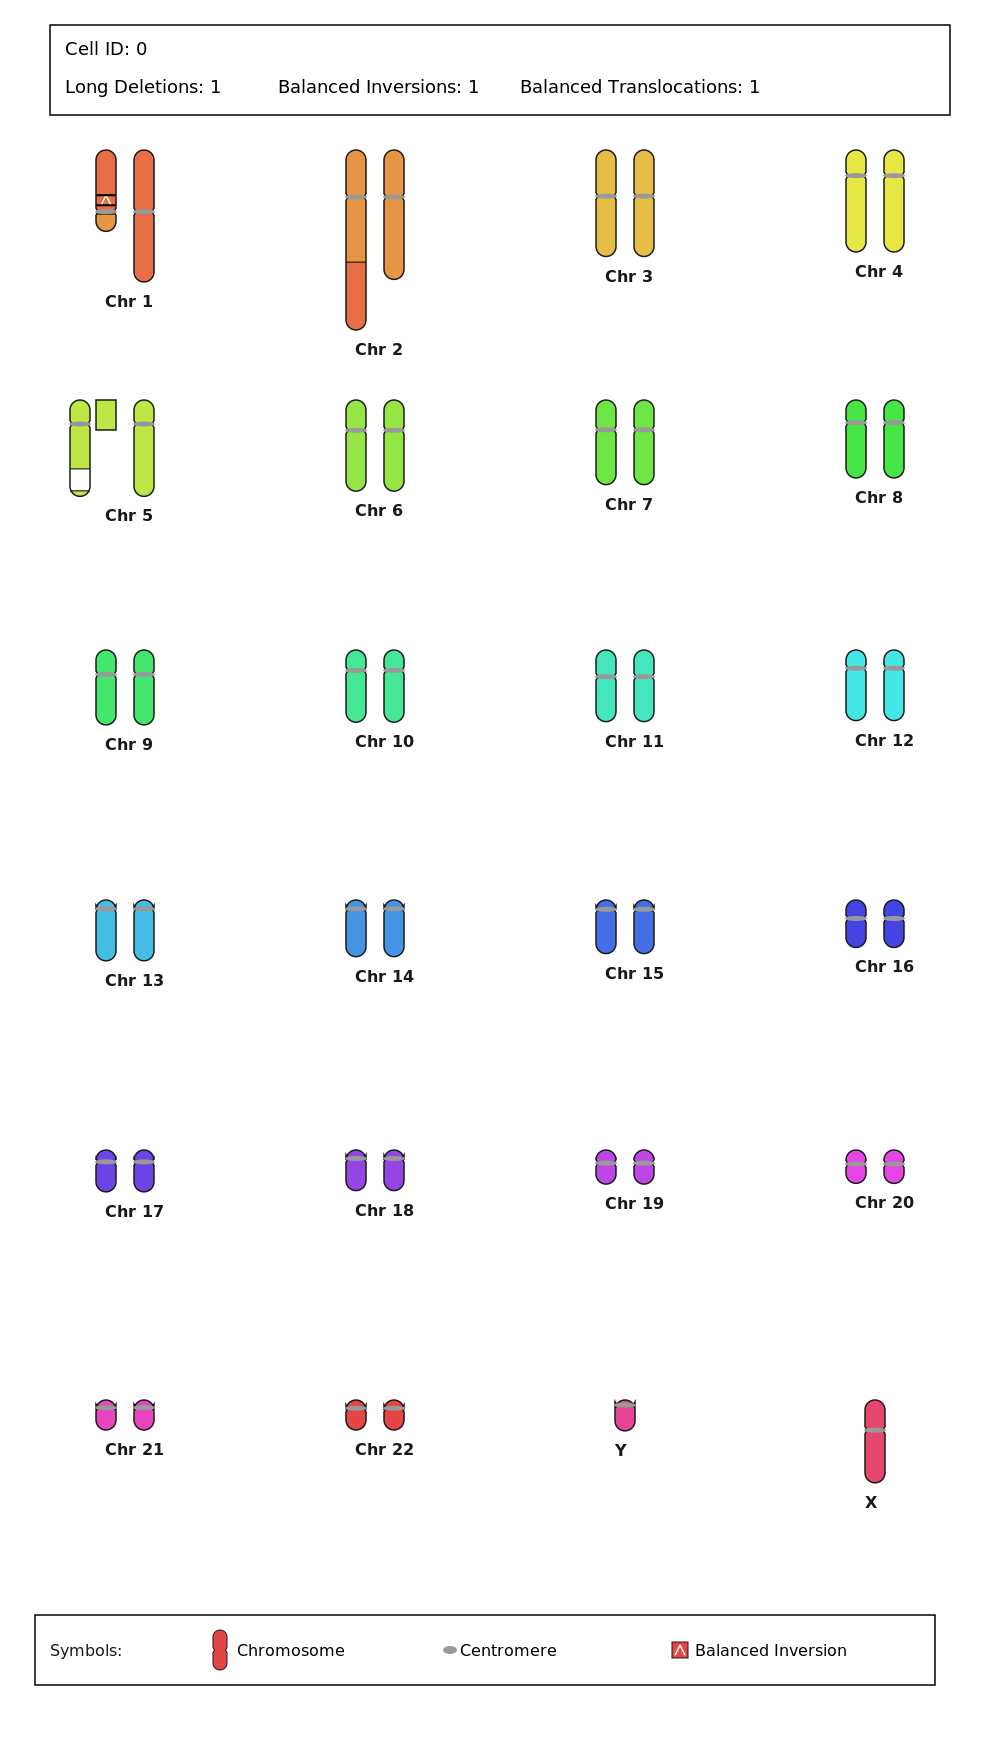
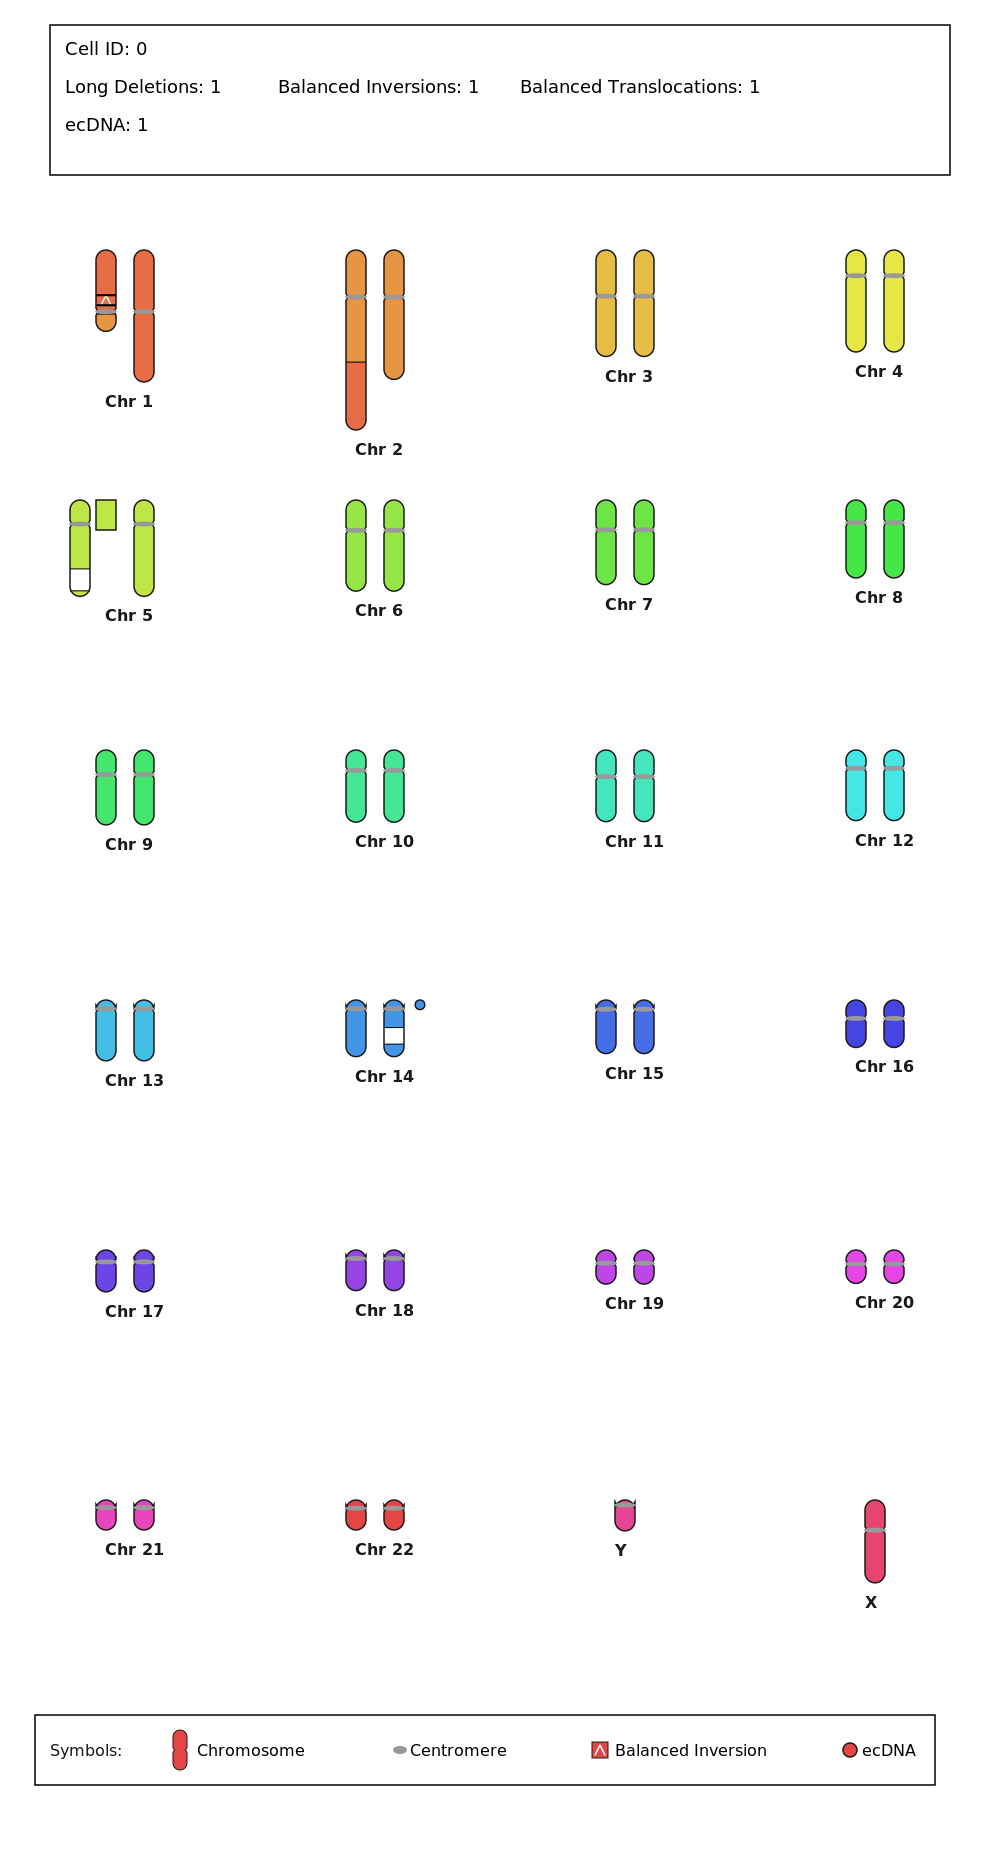
Updated karyogram for ecDNA.

diff --git a/source/karyogram/KaryogramSDR.cpp b/source/karyogram/KaryogramSDR.cpp
@@ -93,7 +93,7 @@ bool Karyogram::generateSDRkaryogram(					// Function to draw a karyogram of the
     const int columns = 4;
     const double colWidth = static_cast<double>(imgWidth) / columns;
     const double rowHeight = 250.0;
-    const double startY = 150.0;
+    const double startY = 250.0;
     const int rows = (drawableGroups + columns - 1) / columns;
     int imgHeight;
 
@@ -721,6 +721,8 @@ void Karyogram::drawStackedMutations(
     // real chromosome edge.
     const bool isDeletion = isDeletionShape(records, homeOldStrandID);
 
+    const bool isECDNA = isECDNAshape(records, homeOldStrandID);
+
     const std::size_t sizeIndex = static_cast<std::size_t>(homeOldStrandID);
     
     const double originalSizeMbp = (sizeIndex < masterHeader.intactChromosomeSizes.size()) ? masterHeader.intactChromosomeSizes[sizeIndex] : 0.0;
@@ -737,7 +739,7 @@ void Karyogram::drawStackedMutations(
             lengthMbp += std::fabs(fragment.oldEndPosition - fragment.oldStartPosition);// Determine new rearranged strand length
         }
 
-        if (isDeletion && record->fragments.size() == 2 && originalSizeMbp > 0.0)
+        if ((isDeletion || isECDNA) && record->fragments.size() == 2 && originalSizeMbp > 0.0)
         {
             const double barHeight = computeSDRbarHeight(originalSizeMbp, maxLengthMbp, maxRenderHeight);
             const std::vector<PaintedSegment> segments = buildDeletionRemainingSegments(*record, homeOldStrandID, humanGenome, masterHeader);
@@ -759,6 +761,23 @@ void Karyogram::drawStackedMutations(
             const std::vector<PaintedSegment> segments = buildPaintedSegments(*record, humanGenome, masterHeader);
 
             drawPaintedChromosome(cr, barX, posY, barHeight, chromosomeWidth, segments, roundTopCap, roundBottomCap);
+        }
+	else if (isECDNA && record->fragments.size() == 1 && originalSizeMbp > 0.0)
+        {
+	    // Scale so the CIRCUMFERENCE matches what this fragment's height
+    	    // would be if drawn as a linear bar - each base pair gets the same
+    	    // amount of linear space along the circle's edge as it would along
+    	    // a bar's height, rather than mapping length directly to diameter.
+    	    const double equivalentLinearHeight = computeSDRbarHeight(lengthMbp, maxLengthMbp, maxRenderHeight);
+    	    double diameter = equivalentLinearHeight / M_PI;
+	    diameter = std::min(diameter, chromosomeWidth * 3.0);
+
+
+            const double centerX = barX + chromosomeWidth / 2.0;
+            const double centerY = posY + diameter / 2.0;
+            const RGB color = getColorForOriginalStrand(homeOldStrandID, masterHeader);
+
+            drawCircularFragment(cr, centerX, centerY, diameter, color);
         }
 	else
         {
@@ -918,6 +937,37 @@ void Karyogram::drawInversionChevron(					// Function to draw a marker to denote
 
 
 
+
+
+
+// Draws an ecDNA fragment as a filled circle rather than a bar -
+// visually distinct from every other (linear) piece on the karyogram.
+void Karyogram::drawCircularFragment(cairo_t* cr, double centerX, double centerY, double diameter, RGB color)
+{
+    const double radius = diameter / 2.0;
+
+    cairo_new_path(cr);
+    cairo_arc(cr, centerX, centerY, radius, 0.0, 2.0 * M_PI);
+
+    cairo_set_source_rgb(cr, color.r, color.g, color.b);
+    cairo_fill_preserve(cr);
+
+    cairo_set_source_rgb(cr, 0.1, 0.1, 0.1);
+    cairo_set_line_width(cr, 1.5);
+    cairo_stroke(cr);
+}
+
+
+
+
+
+
+
+
+
+
+
+
 // The same height-scaling formula drawStackedMutations uses per bar -
 // pulled out so label positioning can reuse it without duplicating
 // the clamp logic.
@@ -1039,6 +1089,59 @@ std::vector<const SDRdataRecord*> Karyogram::filterBaselineIfMutated(
 // ------------------------------------------------------- //
 
 
+// Identical shape to isDeletionShape(), except the excised (1-fragment)
+// record must be CIRCULAR rather than linear, and must be acentric -
+// an ecDNA fragment carrying a centromere isn't ecDNA.
+bool Karyogram::isECDNAshape(const std::vector<const SDRdataRecord*>& records, int homeOldStrandID)
+{
+    if (records.size() != 2)
+    {
+        return false;
+    }
+
+    const SDRdataRecord* twoFragmentRecord = nullptr;
+    const SDRdataRecord* oneFragmentRecord = nullptr;
+
+    for (const SDRdataRecord* record : records)
+    {
+        for (const SDRfragment& fragment : record->fragments)
+        {
+            if (fragment.oldStrandID != homeOldStrandID)
+            {
+                return false;
+            }
+        }
+
+        if (record->fragments.size() == 2 && record->linear && twoFragmentRecord == nullptr)
+        {
+            twoFragmentRecord = record;
+        }
+        else if (record->fragments.size() == 1 && !record->linear && !record->fragments[0].hasCentromere && oneFragmentRecord == nullptr)
+        {
+            oneFragmentRecord = record;
+        }
+        else
+        {
+            return false;
+        }
+    }
+
+    return twoFragmentRecord != nullptr && oneFragmentRecord != nullptr;
+}
+
+
+
+
+
+
+
+
+
+
+
+
+
+
 // A deletion's records have a specific, checkable shape: exactly two
 // records assigned to this home strand, one with exactly two
 // fragments and one with exactly one, and every fragment in both
@@ -1091,79 +1194,6 @@ bool Karyogram::isDeletionShape(const std::vector<const SDRdataRecord*>& records
 
 
 
-
-
-
-/*
-// The first record's full fragment list is the base structure (e.g.
-// an inversion's rearranged shape). Every subsequent record only
-// contributes its FOREIGN (non-home-strand) fragments - its own
-// home-strand fragments would just duplicate genomic territory the
-// base record already covers.
-SDRdataRecord Karyogram::concatenateRecordsForDrawing(const std::vector<const SDRdataRecord*>& records, int homeOldStrandID)
-{
-    SDRdataRecord merged{};
-    merged.cellID = records.front()->cellID;
-    merged.newStrandID = records.front()->newStrandID; // Representative ID, used only for the drawn label.
-    merged.linear = records.front()->linear;
-
-    std::vector<SDRfragment> baseFragments(records.front()->fragments.begin(), records.front()->fragments.end());
-
-    for (std::size_t i = 1; i < records.size(); ++i)
-    {
-        std::vector<std::pair<double, double>> replacedRanges;
-
-        for (const SDRfragment& fragment : records[i]->fragments)
-        {
-            if (fragment.oldStrandID == homeOldStrandID)
-            {
-                const double lo = std::min(fragment.oldStartPosition, fragment.oldEndPosition);
-                const double hi = std::max(fragment.oldStartPosition, fragment.oldEndPosition);
-                replacedRanges.push_back({lo, hi});
-            }
-        }
-
-        for (const auto& range : replacedRanges)
-        {
-            std::vector<SDRfragment> clipped;
-
-            for (const SDRfragment& base : baseFragments)
-            {
-                const double baseLo = std::min(base.oldStartPosition, base.oldEndPosition);
-                const double baseHi = std::max(base.oldStartPosition, base.oldEndPosition);
-
-                if (baseHi <= range.first || baseLo >= range.second)
-                {
-                    clipped.push_back(base); // No overlap - keep as-is.
-                }
-                // Any base fragment overlapping the replaced range is dropped
-                // (full removal - assumes no partial-overlap cases for now).
-            }
-
-            baseFragments = clipped;
-        }
-    }
-
-    for (const SDRfragment& fragment : baseFragments)
-    {
-        merged.fragments.push_back(fragment);
-    }
-
-    for (std::size_t i = 1; i < records.size(); ++i)
-    {
-        for (const SDRfragment& fragment : records[i]->fragments)
-        {
-            if (fragment.oldStrandID != homeOldStrandID)
-            {
-                merged.fragments.push_back(fragment);
-            }
-        }
-    }
-
-    return merged;
-
-}
-*/
 
 
 
@@ -1282,10 +1312,12 @@ std::vector<const SDRdataRecord*> Karyogram::clusterRecordsForDrawing(
         return records;
     }
 
-    if (isDeletionShape(records, homeOldStrandID))
+
+    if (isDeletionShape(records, homeOldStrandID) || isECDNAshape(records, homeOldStrandID))
     {
         return records;
     }
+
 
     mergedStorage.push_back(concatenateRecordsForDrawing(records, homeOldStrandID));
 
@@ -1313,11 +1345,12 @@ void Karyogram::drawSDRsummary(cairo_t* cr, const SDRmasterHeader& masterHeader,
     const std::vector<SDRdeletionEvent> deletions = detectDeletions(subHeader, numOriginalStrands);
     const std::vector<SDRinversionEvent> inversions = detectInversions(subHeader, numOriginalStrands);
     const std::vector<SDRtranslocationEvent> translocations = detectTranslocations(subHeader, numOriginalStrands);
+    const std::vector<SDRecDNAevent> ecDNA = detectECDNA(subHeader, numOriginalStrands);
 
     const double summaryX = 50.0;
     const double summaryY = 25.0;
     const double summaryWidth = 900.0;
-    const double summaryHeight = 90.0;
+    const double summaryHeight = 150.0;
 
     cairo_set_source_rgb(cr, 0.0, 0.0, 0.0);
     cairo_set_line_width(cr, 1.5);
@@ -1330,6 +1363,7 @@ void Karyogram::drawSDRsummary(cairo_t* cr, const SDRmasterHeader& masterHeader,
 
     const double firstRowY = summaryY + 30.0;
     const double secondRowY = summaryY + 68.0;
+    const double thirdRowY = summaryY + 106.0;
 
     cairo_move_to(cr, summaryX + 15.0, firstRowY);
     cairo_show_text(cr, ("Cell ID: " + std::to_string(subHeader.cellID)).c_str());
@@ -1342,6 +1376,11 @@ void Karyogram::drawSDRsummary(cairo_t* cr, const SDRmasterHeader& masterHeader,
 
     cairo_move_to(cr, summaryX + 470.0, secondRowY);
     cairo_show_text(cr, ("Balanced Translocations: " + std::to_string(translocations.size())).c_str());
+
+    cairo_move_to(cr, summaryX + 15.0, thirdRowY);
+    cairo_show_text(cr, ("ecDNA: " + std::to_string(ecDNA.size())).c_str());
+
+
 }
 
 
@@ -1385,7 +1424,7 @@ void Karyogram::drawSDRlegend(cairo_t* cr, double legendY)
     // --------------------------------------------------
     const double chromosomeWidth = 14.0;
     const double chromosomeHeight = 40.0;
-    const double chromosomeCenterX = 220.0;
+    const double chromosomeCenterX = 180.0;
     const double chromosomeX = chromosomeCenterX - chromosomeWidth / 2.0;
     const double chromosomeY = legendCenterY - chromosomeHeight / 2.0;
 
@@ -1425,7 +1464,7 @@ void Karyogram::drawSDRlegend(cairo_t* cr, double legendY)
     // --------------------------------------------------
     // Centromere symbol
     // --------------------------------------------------
-    const double centromereX = 450.0;
+    const double centromereX = 400.0;
     const double ellipseWidth = 14.0;
     const double ellipseHeight = 8.0;
 
@@ -1449,7 +1488,7 @@ void Karyogram::drawSDRlegend(cairo_t* cr, double legendY)
     // Balanced inversion symbol - a small colored square with the
     // same chevron used on the karyogram itself
     // --------------------------------------------------
-    const double inversionX = 680.0;
+    const double inversionX = 600.0;
     const double inversionSize = 16.0;
 
     cairo_new_path(cr);
@@ -1467,4 +1506,24 @@ void Karyogram::drawSDRlegend(cairo_t* cr, double legendY)
     cairo_set_source_rgb(cr, 0.0, 0.0, 0.0);
     cairo_move_to(cr, inversionX + 15.0, textBaseline);
     cairo_show_text(cr, "Balanced Inversion");
+
+
+    // --------------------------------------------------
+    // ecDNA symbol - same circular shape used on the karyogram itself
+    // --------------------------------------------------
+    const double ecDNAX = 850.0;
+    const double ecDNADiameter = 14.0;
+
+    cairo_new_path(cr);
+
+    drawCircularFragment(cr, ecDNAX, legendCenterY, ecDNADiameter, chromosomeColor);
+
+    cairo_set_source_rgb(cr, 0.0, 0.0, 0.0);
+    cairo_select_font_face(cr, "Sans", CAIRO_FONT_SLANT_NORMAL, CAIRO_FONT_WEIGHT_NORMAL);
+    cairo_set_font_size(cr, 16.0);
+    cairo_move_to(cr, ecDNAX + 12.0, textBaseline);
+    cairo_show_text(cr, "ecDNA");
+
+
+
 }

diff --git a/include/Karyogram.h b/include/Karyogram.h
@@ -92,6 +92,7 @@ private:
     void drawDoubleStrandBreakMarker(cairo_t* cr, double x, double y, double chromosomeWidth);				// Function to draw the damage locations at a given x and y coordinate on the Karyogram, the entire width of the drawn chromosome.
     void drawSingleStrandBreakMarker(cairo_t* cr, double x, double y, double markerLength);
     void drawInversionChevron(cairo_t* cr, double centerX, double centerY, double size);
+    void drawCircularFragment(cairo_t* cr, double centerX, double centerY, double diameter, RGB color);
 
     const CentromerePosition* getHumanCentromere(int chromosomeID);		// Returns a chromosome's corresponding centromere start and end locations to draw the centromere ellipse on the karyogram.
     bool getCentromereForOriginalStrand(int oldStrandID, bool humanGenome, const SDRmasterHeader& masterHeader, double&centromereStartBP, double& centromereEndBP);			// Check if original strand has centromere in the given range
@@ -109,6 +110,7 @@ private:
     std::vector<const SDRdataRecord*> filterBaselineIfMutated(const std::vector<const SDRdataRecord*>& records, int numOriginalStrands);
 
     bool isDeletionShape(const std::vector<const SDRdataRecord*>& records, int homeOldStrandID);
+    bool isECDNAshape(const std::vector<const SDRdataRecord*>& records, int homeOldStrandID);
     SDRdataRecord concatenateRecordsForDrawing(const std::vector<const SDRdataRecord*>& records, int homeOldStrandID);
     std::vector<const SDRdataRecord*> clusterRecordsForDrawing(const std::vector<const SDRdataRecord*>& records, int homeOldStrandID, std::vector<SDRdataRecord>& mergedStorage);
 
